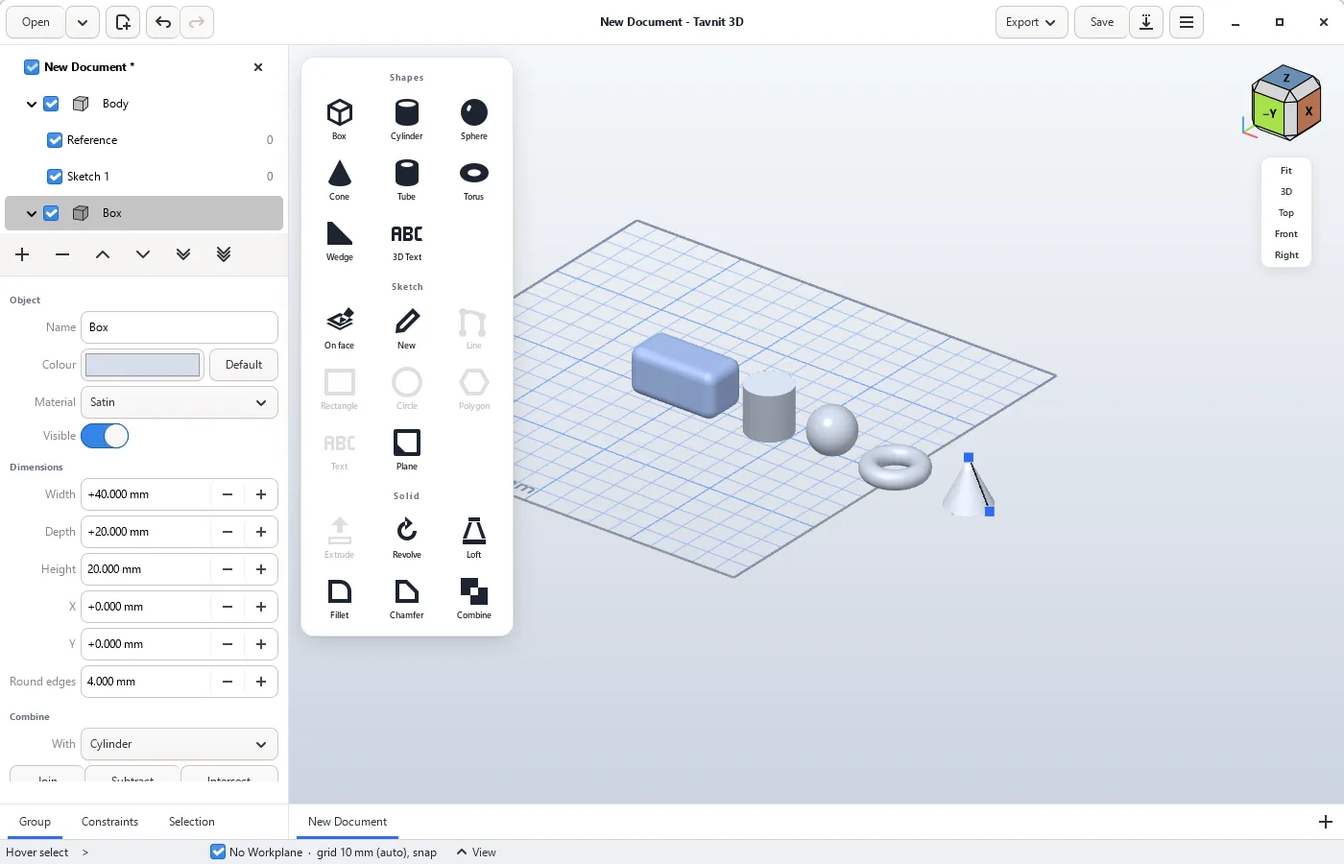
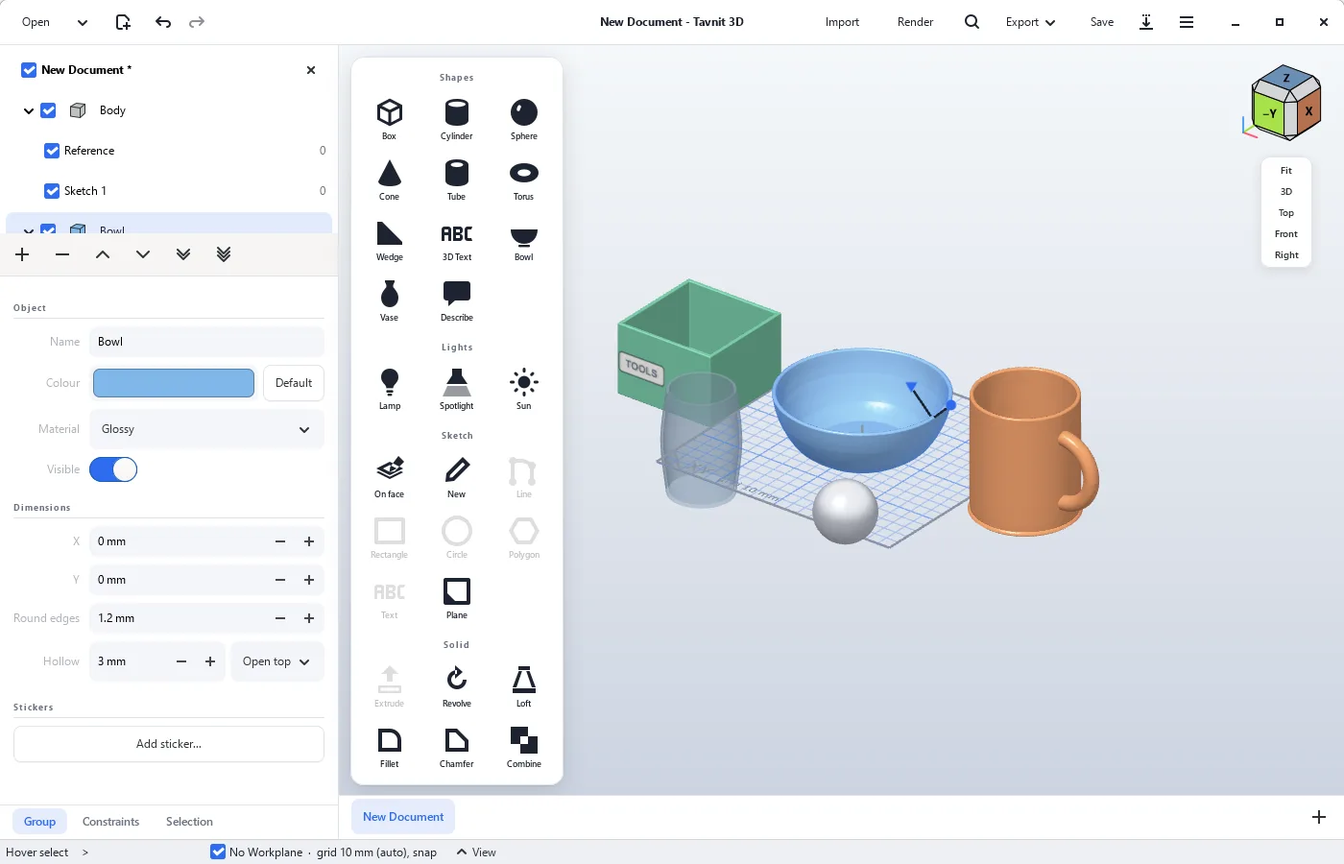
Site: 0.2.0 features, new screenshots

diff --git a/site/index.html b/site/index.html
@@ -5,7 +5,7 @@
   <meta name="viewport" content="width=device-width, initial-scale=1">
   <meta name="color-scheme" content="light dark">
   <title>Tavnit 3D - תכנון תלת-ממד פשוט ל-Windows</title>
-  <meta name="description" content="Tavnit 3D היא תוכנת תכנון תלת-ממד (CAD) ל-Windows: צורות מוכנות, מידות מדויקות, חיבור וחיסור צורות וייצוא ל-STL להדפסה. חינם ובקוד פתוח, מבוססת על Dune 3D.">
+  <meta name="description" content="Tavnit 3D היא תוכנת תכנון תלת-ממד (CAD) ל-Windows: צורות מוכנות, מידות מדויקות, חומרים ומדבקות, תאורה ותמונות כמו צילום, וייצוא ל-STL להדפסה. חינם ובקוד פתוח, מבוססת על Dune 3D.">
   <link rel="canonical" href="https://star69995.github.io/tavnit3d/">
   <link rel="alternate" hreflang="he" href="https://star69995.github.io/tavnit3d/">
   <link rel="alternate" hreflang="en" href="https://star69995.github.io/tavnit3d/en/">
@@ -15,7 +15,7 @@
   <meta property="og:type" content="website">
   <meta property="og:url" content="https://star69995.github.io/tavnit3d/">
   <meta property="og:title" content="Tavnit 3D - תכנון תלת-ממד פשוט ל-Windows">
-  <meta property="og:description" content="צורות מוכנות, מידות מדויקות, חיבור וחיסור צורות וייצוא ל-STL להדפסה בתלת-ממד. חינם ובקוד פתוח, מבוססת על Dune 3D.">
+  <meta property="og:description" content="צורות מוכנות, מידות מדויקות, חומרים, מדבקות ותמונות כמו צילום, וייצוא ל-STL להדפסה בתלת-ממד. חינם ובקוד פתוח, מבוססת על Dune 3D.">
   <meta property="og:image" content="https://star69995.github.io/tavnit3d/img/og.png">
   <meta property="og:image:width" content="1200">
   <meta property="og:image:height" content="630">
@@ -44,6 +44,10 @@
       <symbol id="i-grid" viewBox="0 0 24 24"><rect width="18" height="18" x="3" y="3" rx="2"/><path d="M3 9h18"/><path d="M3 15h18"/><path d="M9 3v18"/><path d="M15 3v18"/></symbol>
       <symbol id="i-printer" viewBox="0 0 24 24"><path d="M6 18H4a2 2 0 0 1-2-2v-5a2 2 0 0 1 2-2h16a2 2 0 0 1 2 2v5a2 2 0 0 1-2 2h-2"/><path d="M6 9V3a1 1 0 0 1 1-1h10a1 1 0 0 1 1 1v6"/><rect x="6" y="14" width="12" height="8" rx="1"/></symbol>
       <symbol id="i-refresh" viewBox="0 0 24 24"><path d="M3 12a9 9 0 0 1 9-9 9.75 9.75 0 0 1 6.74 2.74L21 8"/><path d="M21 3v5h-5"/><path d="M21 12a9 9 0 0 1-9 9 9.75 9.75 0 0 1-6.74-2.74L3 16"/><path d="M8 16H3v5"/></symbol>
+      <symbol id="i-palette" viewBox="0 0 24 24"><path d="M12 22a1 1 0 0 1 0-20 10 9 0 0 1 10 9 5 5 0 0 1-5 5h-2.25a1.75 1.75 0 0 0-1.4 2.8l.3.4a1.75 1.75 0 0 1-1.4 2.8z"/><circle cx="13.5" cy="6.5" r=".5"/><circle cx="17.5" cy="10.5" r=".5"/><circle cx="6.5" cy="12.5" r=".5"/><circle cx="8.5" cy="7.5" r=".5"/></symbol>
+      <symbol id="i-camera" viewBox="0 0 24 24"><path d="M14.5 4h-5L7 7H4a2 2 0 0 0-2 2v9a2 2 0 0 0 2 2h16a2 2 0 0 0 2-2V9a2 2 0 0 0-2-2h-3l-2.5-3z"/><circle cx="12" cy="13" r="3"/></symbol>
+      <symbol id="i-cup" viewBox="0 0 24 24"><path d="M17 8h1a4 4 0 1 1 0 8h-1"/><path d="M3 8h14v9a4 4 0 0 1-4 4H7a4 4 0 0 1-4-4Z"/><path d="M6 2v2"/><path d="M10 2v2"/><path d="M14 2v2"/></symbol>
+      <symbol id="i-files" viewBox="0 0 24 24"><path d="M15 2H6a2 2 0 0 0-2 2v16a2 2 0 0 0 2 2h12a2 2 0 0 0 2-2V7Z"/><path d="M14 2v4a2 2 0 0 0 2 2h4"/><path d="M12 18v-6"/><path d="m9 15 3 3 3-3"/></symbol>
       <symbol id="i-sparkles" viewBox="0 0 24 24"><path d="M9.94 15.5A2 2 0 0 0 8.5 14.06l-6.13-1.58a.5.5 0 0 1 0-.96L8.5 9.94A2 2 0 0 0 9.94 8.5l1.58-6.13a.5.5 0 0 1 .96 0L14.06 8.5A2 2 0 0 0 15.5 9.94l6.13 1.58a.5.5 0 0 1 0 .96L15.5 14.06a2 2 0 0 0-1.44 1.44l-1.58 6.13a.5.5 0 0 1-.96 0z"/><path d="M20 3v4"/><path d="M22 5h-4"/></symbol>
       <symbol id="i-git" viewBox="0 0 24 24"><circle cx="18" cy="18" r="3"/><circle cx="6" cy="6" r="3"/><path d="M6 21V9a9 9 0 0 0 9 9"/></symbol>
       <symbol id="i-shield" viewBox="0 0 24 24"><path d="M20 13c0 5-3.5 7.5-7.66 8.95a1 1 0 0 1-.67-.01C7.5 20.5 4 18 4 13V6a1 1 0 0 1 1-1c2 0 4.5-1.2 6.24-2.72a1.17 1.17 0 0 1 1.52 0C14.51 3.81 17 5 19 5a1 1 0 0 1 1 1z"/><path d="m9 12 2 2 4-4"/></symbol>
@@ -89,8 +93,8 @@
           <p class="eyebrow">ל-Windows 10 ו-11 · חינם · קוד פתוח</p>
           <h1>מתכננים חפצים בתלת-ממד, בלי ללמוד CAD</h1>
           <p class="lead">
-            Tavnit 3D היא תוכנת תכנון תלת-ממד למדפסת, לבית ולתחביב. מוסיפים קובייה, גליל או כדור בלחיצה,
-            קובעים מידות במילימטרים, מחברים ומחסירים צורות, ומייצאים קובץ STL שמוכן להדפסה.
+            Tavnit 3D היא תוכנת תכנון תלת-ממד למדפסת, לבית ולתחביב. מוסיפים קובייה, קערה או ספל בלחיצה,
+            קובעים מידות במילימטרים, נותנים צבע, חומר ומדבקה, ומייצאים קובץ STL להדפסה או מפיקים תמונה שנראית כמו צילום.
             מתחת לפני השטח זו תוכנת CAD פרמטרית מלאה, מבוססת על Dune 3D.
           </p>
           <div class="cta">
@@ -108,7 +112,7 @@
         <div class="hero-shot">
           <div class="window">
             <img src="img/hero.webp" width="1400" height="900"
-                 alt="חלון Tavnit 3D: לוח צורות וכלים, ועל משטח עבודה עם רשת קופסה עם פינות מעוגלות, גליל מתכתי, כדור, טבעת וחרוט. הקופסה נבחרת ובחלונית בצד המידות שלה">
+                 alt="חלון Tavnit 3D: לוח צורות, אורות וכלים, ועל משטח העבודה קופסת אחסון ירוקה עם מדבקה, כוס זכוכית, קערה כחולה מבריקה, כדור מתכת וספל כתום עם ידית. הקערה נבחרת, עם ידיות לעובי הדופן ולעיגול הקצוות, ובחלונית בצד הצבע, החומר ועובי הדופן שלה">
           </div>
         </div>
       </div>
@@ -123,17 +127,17 @@
           <article class="feature">
             <span class="feature-ic"><svg class="ic"><use href="#i-box"/></svg></span>
             <h3>צורות מוכנות</h3>
-            <p>קובייה, גליל, כדור, חרוט, צינור, טבעת, טריז וטקסט תלת-ממדי. לוחצים, והצורה עומדת על משטח העבודה.</p>
+            <p>קובייה, גליל, כדור, חרוט, צינור, טבעת, טריז, קערה, אגרטל וטקסט תלת-ממדי. לוחצים, והצורה עומדת על משטח העבודה.</p>
           </article>
           <article class="feature">
             <span class="feature-ic"><svg class="ic"><use href="#i-pointer"/></svg></span>
             <h3>לוחצים על חפץ ומשנים</h3>
-            <p>לחיצה על צורה בוחרת אותה ופותחת חלונית עם המידות, המיקום, הצבע והחומר שלה. גוררים כדי להזיז.</p>
+            <p>לחיצה על צורה בוחרת אותה ופותחת חלונית עם המידות, המיקום, הצבע והחומר שלה. גוררים כדי להזיז, וגוררים את הידיות שעל החפץ כדי לשנות גובה, רוחב ועומק.</p>
           </article>
           <article class="feature">
             <span class="feature-ic"><svg class="ic"><use href="#i-ruler"/></svg></span>
             <h3>מידות מדויקות</h3>
-            <p>כל מידה היא מספר שאפשר לשנות בכל רגע, והחפץ מתעדכן. מתאים לחלקים שצריכים להתאים זה לזה.</p>
+            <p>כל מידה היא מספר שאפשר לשנות בכל רגע, והחפץ מתעדכן. רשת עם הצמדה ושכפול ב-Ctrl+D עוזרים לסדר חלקים בדיוק.</p>
           </article>
           <article class="feature">
             <span class="feature-ic"><svg class="ic"><use href="#i-combine"/></svg></span>
@@ -141,24 +145,39 @@
             <p>מאחדים שתי צורות לאחת, מחסירים צורה כדי ליצור חור, או משאירים רק את החלק המשותף.</p>
           </article>
           <article class="feature">
+            <span class="feature-ic"><svg class="ic"><use href="#i-cup"/></svg></span>
+            <h3>חלול ומעוגל</h3>
+            <p>הופכים קופסה, גליל או קערה לחלולים בעובי דופן שבוחרים, פתוחים מלמעלה או מלמטה, ומעגלים את כל הקצוות, גם את השפה.</p>
+          </article>
+          <article class="feature">
+            <span class="feature-ic"><svg class="ic"><use href="#i-palette"/></svg></span>
+            <h3>חומרים ומדבקות</h3>
+            <p>סאטן, מט, מבריק, מתכת וזכוכית שקופה. ותמונה משלכם, כמו לוגו או תווית, מודבקת על פני החפץ, גם על צד מעוגל.</p>
+          </article>
+          <article class="feature">
+            <span class="feature-ic"><svg class="ic"><use href="#i-camera"/></svg></span>
+            <h3>תאורה ותמונה כמו צילום</h3>
+            <p>מנורה, זרקור ושמש שמאירים את התצוגה, וכפתור Render שמפיק תמונה מרשימה עם צללים רכים, בעזרת Blender החינמית.</p>
+          </article>
+          <article class="feature">
+            <span class="feature-ic"><svg class="ic"><use href="#i-sparkles"/></svg></span>
+            <h3>צורה מתיאור במילים</h3>
+            <p>כותבים "ספל עם ידית" או "קערה כחולה", ו-Claude בונה את הצורות, שאפשר לערוך אחר כך כמו כל חפץ. צריך מפתח API של Claude.</p>
+          </article>
+          <article class="feature">
             <span class="feature-ic"><svg class="ic"><use href="#i-pen"/></svg></span>
             <h3>שרטוט על פאה</h3>
             <p>משרטטים צורה דו-ממדית ישר על פאה של חפץ, ומושכים אותה החוצה. מרחק שלילי חותך פנימה.</p>
           </article>
           <article class="feature">
-            <span class="feature-ic"><svg class="ic"><use href="#i-round"/></svg></span>
-            <h3>פינות מעוגלות</h3>
-            <p>לחיצה אחת מעגלת את כל הקצוות של חפץ, לגימור נעים יותר ולהדפסה חזקה יותר.</p>
+            <span class="feature-ic"><svg class="ic"><use href="#i-files"/></svg></span>
+            <h3>ייבוא וייצוא עם צבעים</h3>
+            <p>STL למדפסת בלחיצה, STEP לתוכנות CAD, ו-glTF עם צבעים, חומרים ומדבקות ל-Blender, ל-PowerPoint ולאתרים. מייבאים STEP, IGES, glTF ו-OBJ עם הצבעים שלהם.</p>
           </article>
           <article class="feature">
-            <span class="feature-ic"><svg class="ic"><use href="#i-grid"/></svg></span>
-            <h3>רשת והצמדה</h3>
-            <p>משטח עבודה עם רשת שגודלה ניתן לבחירה, ושכפול חפצים ב-Ctrl+D. קל לסדר חלקים בדיוק.</p>
-          </article>
-          <article class="feature">
-            <span class="feature-ic"><svg class="ic"><use href="#i-printer"/></svg></span>
-            <h3>מוכן להדפסה</h3>
-            <p>ייצוא ל-STL למדפסת תלת-ממד בלחיצה, וגם ל-STEP ומ-STEP, לעבודה מול תוכנות CAD אחרות.</p>
+            <span class="feature-ic"><svg class="ic"><use href="#i-search"/></svg></span>
+            <h3>חיפוש פקודות</h3>
+            <p>Ctrl+K, או פשוט מקלידים, ומקבלים כל פקודה עם המקום שלה בחלון וקיצור המקלדת שלה. אפשר לחפש גם בעברית.</p>
           </article>
           <article class="feature">
             <span class="feature-ic"><svg class="ic"><use href="#i-refresh"/></svg></span>
@@ -176,11 +195,25 @@
         <p class="section-lead">לחיצה על תמונה מגדילה אותה. הממשק של התוכנה באנגלית.</p>
         <div class="gallery">
           <figure class="shot">
-            <button type="button" class="shot-btn" data-full="img/object-panel.webp" aria-label="הגדלת התמונה: חלונית החפץ">
-              <img src="img/object-panel.webp" width="1400" height="900" loading="lazy"
-                   alt="קובייה עם פינות מעוגלות נבחרת, ובחלונית בצד הרוחב, העומק, הגובה, המיקום, עיגול הפינות, הצבע והחומר שלה">
+            <button type="button" class="shot-btn" data-full="img/render.webp" aria-label="הגדלת התמונה: תמונה שהופקה בכפתור Render">
+              <img src="img/render.webp" width="1400" height="900" loading="lazy"
+                   alt="תמונה שהופקה מהחפצים שבחלון: קופסה ירוקה עם תווית TOOLS, כוס זכוכית שקופה, קערה כחולה מבריקה, כדור מתכת וספל כתום עם ידית, עם צללים רכים על רקע לבן">
             </button>
-            <figcaption><strong>הכול בחלונית אחת</strong>בוחרים חפץ ומשנים מידות, מיקום, עיגול פינות, צבע וחומר.</figcaption>
+            <figcaption><strong>תמונה כמו צילום</strong>אותה סצנה, אחרי לחיצה על Render: זכוכית, מתכת וצללים רכים.</figcaption>
+          </figure>
+          <figure class="shot">
+            <button type="button" class="shot-btn" data-full="img/handles.webp" aria-label="הגדלת התמונה: ידיות על החפץ">
+              <img src="img/handles.webp" width="1400" height="900" loading="lazy"
+                   alt="גליל שהפך לכוס חלולה עם שפה מעוגלת, ועליו ידיות לגובה, לקוטר, לעובי הדופן ולעיגול הקצוות">
+            </button>
+            <figcaption><strong>ידיות על החפץ</strong>גוררים ידית ומשנים גובה, קוטר, עובי דופן או עיגול, והחלונית מתעדכנת.</figcaption>
+          </figure>
+          <figure class="shot">
+            <button type="button" class="shot-btn" data-full="img/find.webp" aria-label="הגדלת התמונה: חיפוש פקודות">
+              <img src="img/find.webp" width="1400" height="900" loading="lazy"
+                   alt="חלון החיפוש מעל התוכנה: הוקלד stick, והתוצאה Add a sticker עם המקום שלה, בחלונית החפץ תחת Stickers">
+            </button>
+            <figcaption><strong>חיפוש פקודות</strong>כל פקודה, עם המקום שבו היא נמצאת.</figcaption>
           </figure>
           <figure class="shot">
             <button type="button" class="shot-btn" data-full="img/shapes.webp" aria-label="הגדלת התמונה: צורות מוכנות">
@@ -367,6 +400,18 @@
         <details class="disclosure">
           <summary><svg class="ic chev"><use href="#i-chevron"/></svg>איך מעדכנים לגרסה חדשה?</summary>
           <div class="disclosure-body"><p>בכל הפעלה התוכנה בודקת אם יצאה גרסה חדשה, ואם כן מופיע פס מעל אזור העבודה. לוחצים על "Update now", והתוכנה מורידה את הגרסה, מתקינה אותה ונפתחת מחדש. כדאי לשמור את הקבצים הפתוחים לפני כן. את הבדיקה האוטומטית אפשר לכבות בתפריט הראשי, ובכל רגע אפשר גם להוריד את הגרסה האחרונה מכאן ולהתקין מעל הקיימת.</p></div>
+        </details>
+        <details class="disclosure">
+          <summary><svg class="ic chev"><use href="#i-chevron"/></svg>מה צריך כדי להפיק תמונה בכפתור Render?</summary>
+          <div class="disclosure-body"><p>את Blender, תוכנה חינמית שמתקינים בנפרד מ-<a href="https://www.blender.org/download/">האתר שלה</a>. Tavnit 3D מוצאת אותה לבד, ומפעילה אותה ברקע כשלוחצים Render. עם כרטיס גרפי זה מהיר יותר, אבל עובד גם בלעדיו.</p></div>
+        </details>
+        <details class="disclosure">
+          <summary><svg class="ic chev"><use href="#i-chevron"/></svg>מה צריך כדי ליצור צורה מתיאור?</summary>
+          <div class="disclosure-body"><p>מפתח API של Claude, שמקבלים ב-<a href="https://console.anthropic.com/">Anthropic Console</a>. השימוש מחויב שם לפי כמות, ובדרך כלל עולה סנטים בודדים לצורה. התיאור שכותבים נשלח ל-Anthropic כדי לבנות את הצורה, והמפתח נשמר רק במחשב.</p></div>
+        </details>
+        <details class="disclosure">
+          <summary><svg class="ic chev"><use href="#i-chevron"/></svg>אילו קבצים אפשר לייבא?</summary>
+          <div class="disclosure-body"><p>STEP ו-IGES מתוכנות CAD, ו-glTF/GLB ו-OBJ מתוכנות תלת-ממד כמו Blender, כולל הצבעים והחומרים שלהם. כל צבע וחומר בקובץ הופך לחפץ נפרד שאפשר לשנות. חפצים מ-glTF ו-OBJ הם רשתות משולשים, ולכן אי אפשר לחבר אותם או לחסר מהם, אבל אפשר להזיז, לצבוע ולייצא.</p></div>
         </details>
         <details class="disclosure">
           <summary><svg class="ic chev"><use href="#i-chevron"/></svg>אפשר לפתוח קבצים של Dune 3D?</summary>

diff --git a/site/en/index.html b/site/en/index.html
@@ -15,7 +15,7 @@
   <meta property="og:type" content="website">
   <meta property="og:url" content="https://star69995.github.io/tavnit3d/en/">
   <meta property="og:title" content="Tavnit 3D - simple 3D design for Windows">
-  <meta property="og:description" content="Ready-made shapes, exact dimensions, combining and subtracting shapes, and STL export for 3D printing. Free and open source, based on Dune 3D.">
+  <meta property="og:description" content="Ready-made shapes, exact dimensions, materials, stickers and photo-like pictures, and STL export for 3D printing. Free and open source, based on Dune 3D.">
   <meta property="og:image" content="https://star69995.github.io/tavnit3d/img/og-en.png">
   <meta property="og:image:width" content="1200">
   <meta property="og:image:height" content="630">
@@ -44,6 +44,10 @@
       <symbol id="i-grid" viewBox="0 0 24 24"><rect width="18" height="18" x="3" y="3" rx="2"/><path d="M3 9h18"/><path d="M3 15h18"/><path d="M9 3v18"/><path d="M15 3v18"/></symbol>
       <symbol id="i-printer" viewBox="0 0 24 24"><path d="M6 18H4a2 2 0 0 1-2-2v-5a2 2 0 0 1 2-2h16a2 2 0 0 1 2 2v5a2 2 0 0 1-2 2h-2"/><path d="M6 9V3a1 1 0 0 1 1-1h10a1 1 0 0 1 1 1v6"/><rect x="6" y="14" width="12" height="8" rx="1"/></symbol>
       <symbol id="i-refresh" viewBox="0 0 24 24"><path d="M3 12a9 9 0 0 1 9-9 9.75 9.75 0 0 1 6.74 2.74L21 8"/><path d="M21 3v5h-5"/><path d="M21 12a9 9 0 0 1-9 9 9.75 9.75 0 0 1-6.74-2.74L3 16"/><path d="M8 16H3v5"/></symbol>
+      <symbol id="i-palette" viewBox="0 0 24 24"><path d="M12 22a1 1 0 0 1 0-20 10 9 0 0 1 10 9 5 5 0 0 1-5 5h-2.25a1.75 1.75 0 0 0-1.4 2.8l.3.4a1.75 1.75 0 0 1-1.4 2.8z"/><circle cx="13.5" cy="6.5" r=".5"/><circle cx="17.5" cy="10.5" r=".5"/><circle cx="6.5" cy="12.5" r=".5"/><circle cx="8.5" cy="7.5" r=".5"/></symbol>
+      <symbol id="i-camera" viewBox="0 0 24 24"><path d="M14.5 4h-5L7 7H4a2 2 0 0 0-2 2v9a2 2 0 0 0 2 2h16a2 2 0 0 0 2-2V9a2 2 0 0 0-2-2h-3l-2.5-3z"/><circle cx="12" cy="13" r="3"/></symbol>
+      <symbol id="i-cup" viewBox="0 0 24 24"><path d="M17 8h1a4 4 0 1 1 0 8h-1"/><path d="M3 8h14v9a4 4 0 0 1-4 4H7a4 4 0 0 1-4-4Z"/><path d="M6 2v2"/><path d="M10 2v2"/><path d="M14 2v2"/></symbol>
+      <symbol id="i-files" viewBox="0 0 24 24"><path d="M15 2H6a2 2 0 0 0-2 2v16a2 2 0 0 0 2 2h12a2 2 0 0 0 2-2V7Z"/><path d="M14 2v4a2 2 0 0 0 2 2h4"/><path d="M12 18v-6"/><path d="m9 15 3 3 3-3"/></symbol>
       <symbol id="i-sparkles" viewBox="0 0 24 24"><path d="M9.94 15.5A2 2 0 0 0 8.5 14.06l-6.13-1.58a.5.5 0 0 1 0-.96L8.5 9.94A2 2 0 0 0 9.94 8.5l1.58-6.13a.5.5 0 0 1 .96 0L14.06 8.5A2 2 0 0 0 15.5 9.94l6.13 1.58a.5.5 0 0 1 0 .96L15.5 14.06a2 2 0 0 0-1.44 1.44l-1.58 6.13a.5.5 0 0 1-.96 0z"/><path d="M20 3v4"/><path d="M22 5h-4"/></symbol>
       <symbol id="i-git" viewBox="0 0 24 24"><circle cx="18" cy="18" r="3"/><circle cx="6" cy="6" r="3"/><path d="M6 21V9a9 9 0 0 0 9 9"/></symbol>
       <symbol id="i-shield" viewBox="0 0 24 24"><path d="M20 13c0 5-3.5 7.5-7.66 8.95a1 1 0 0 1-.67-.01C7.5 20.5 4 18 4 13V6a1 1 0 0 1 1-1c2 0 4.5-1.2 6.24-2.72a1.17 1.17 0 0 1 1.52 0C14.51 3.81 17 5 19 5a1 1 0 0 1 1 1z"/><path d="m9 12 2 2 4-4"/></symbol>
@@ -89,9 +93,9 @@
           <p class="eyebrow">For Windows 10 and 11 · Free · Open source</p>
           <h1>Design things in 3D, without learning CAD</h1>
           <p class="lead">
-            Tavnit 3D is a 3D design app for your printer, your home and your hobbies. Add a box, a cylinder or a sphere
-            in one click, set dimensions in millimetres, combine and subtract shapes, and export an STL file that's ready to print.
-            Under the hood it's a full parametric CAD, based on Dune 3D.
+            Tavnit 3D is a 3D design app for your printer, your home and your hobbies. Add a box, a bowl or a mug
+            in one click, set dimensions in millimetres, give it a colour, a material and a sticker, and export an STL file to print
+            or render a picture that looks like a photo. Under the hood it's a full parametric CAD, based on Dune 3D.
           </p>
           <div class="cta">
             <a class="btn btn-primary btn-lg" href="https://github.com/Star69995/tavnit3d/releases/latest" data-latest-link id="hero-download">
@@ -108,7 +112,7 @@
         <div class="hero-shot">
           <div class="window">
             <img src="../img/hero.webp" width="1400" height="900"
-                 alt="The Tavnit 3D window: a palette of shapes and tools, and on a gridded work plane a box with rounded edges, a metal cylinder, a sphere, a torus and a cone. The box is selected and its dimensions are in the side panel">
+                 alt="The Tavnit 3D window: a palette of shapes, lights and tools, and on the work plane a green storage box with a label, a glass, a glossy blue bowl, a metal ball and an orange mug with a handle. The bowl is selected, with handles for its wall thickness and edge rounding, and its colour, material and hollowing in the side panel">
           </div>
         </div>
       </div>
@@ -123,17 +127,17 @@
           <article class="feature">
             <span class="feature-ic"><svg class="ic"><use href="#i-box"/></svg></span>
             <h3>Ready-made shapes</h3>
-            <p>Box, cylinder, sphere, cone, tube, torus, wedge and 3D text. One click, and the shape stands on the work plane.</p>
+            <p>Box, cylinder, sphere, cone, tube, torus, wedge, bowl, vase and 3D text. One click, and the shape stands on the work plane.</p>
           </article>
           <article class="feature">
             <span class="feature-ic"><svg class="ic"><use href="#i-pointer"/></svg></span>
             <h3>Click an object to change it</h3>
-            <p>Clicking a shape selects it and opens a panel with its dimensions, position, colour and material. Drag to move it.</p>
+            <p>Clicking a shape selects it and opens a panel with its dimensions, position, colour and material. Drag it to move it, and drag the handles on it to change its height, width and depth.</p>
           </article>
           <article class="feature">
             <span class="feature-ic"><svg class="ic"><use href="#i-ruler"/></svg></span>
             <h3>Exact dimensions</h3>
-            <p>Every dimension is a number you can change at any time, and the object follows. Good for parts that have to fit together.</p>
+            <p>Every dimension is a number you can change at any time, and the object follows. A grid with snapping and Ctrl+D to duplicate help line parts up exactly.</p>
           </article>
           <article class="feature">
             <span class="feature-ic"><svg class="ic"><use href="#i-combine"/></svg></span>
@@ -141,24 +145,39 @@
             <p>Merge two shapes into one, subtract a shape to make a hole, or keep only the part they share.</p>
           </article>
           <article class="feature">
+            <span class="feature-ic"><svg class="ic"><use href="#i-cup"/></svg></span>
+            <h3>Hollow and rounded</h3>
+            <p>Hollow out a box, a cylinder or a bowl with walls as thick as you like, open at the top or the bottom, and round every edge, the rim too.</p>
+          </article>
+          <article class="feature">
+            <span class="feature-ic"><svg class="ic"><use href="#i-palette"/></svg></span>
+            <h3>Materials and stickers</h3>
+            <p>Satin, matte, glossy, metal and see-through glass. And a picture of your own, like a logo or a label, stuck onto the object's surface, round sides included.</p>
+          </article>
+          <article class="feature">
+            <span class="feature-ic"><svg class="ic"><use href="#i-camera"/></svg></span>
+            <h3>Lights and photo-like pictures</h3>
+            <p>A lamp, a spotlight and the sun that light the view, and a Render button that makes a striking picture with soft shadows, using the free Blender.</p>
+          </article>
+          <article class="feature">
+            <span class="feature-ic"><svg class="ic"><use href="#i-sparkles"/></svg></span>
+            <h3>Shapes from a description</h3>
+            <p>Write "a mug with a handle" or "a blue bowl", and Claude builds the shapes, editable afterwards like any other object. Needs a Claude API key.</p>
+          </article>
+          <article class="feature">
             <span class="feature-ic"><svg class="ic"><use href="#i-pen"/></svg></span>
             <h3>Sketch on a face</h3>
             <p>Draw a 2D shape right on an object's face and pull it out. A negative distance cuts in.</p>
           </article>
           <article class="feature">
-            <span class="feature-ic"><svg class="ic"><use href="#i-round"/></svg></span>
-            <h3>Rounded edges</h3>
-            <p>One setting rounds all of an object's edges, for a nicer finish and a stronger print.</p>
+            <span class="feature-ic"><svg class="ic"><use href="#i-files"/></svg></span>
+            <h3>Import and export with colours</h3>
+            <p>STL for your printer in one click, STEP for CAD apps, and glTF with colours, materials and stickers for Blender, PowerPoint and the web. Import STEP, IGES, glTF and OBJ with their colours.</p>
           </article>
           <article class="feature">
-            <span class="feature-ic"><svg class="ic"><use href="#i-grid"/></svg></span>
-            <h3>Grid and snapping</h3>
-            <p>A work plane with a grid size you choose, and Ctrl+D to duplicate. Lining parts up exactly is easy.</p>
-          </article>
-          <article class="feature">
-            <span class="feature-ic"><svg class="ic"><use href="#i-printer"/></svg></span>
-            <h3>Ready to print</h3>
-            <p>Export STL for your 3D printer in one click, plus STEP export and import for working with other CAD apps.</p>
+            <span class="feature-ic"><svg class="ic"><use href="#i-search"/></svg></span>
+            <h3>Find any command</h3>
+            <p>Ctrl+K, or just start typing, and get any command with where it is in the window and its keyboard shortcut.</p>
           </article>
           <article class="feature">
             <span class="feature-ic"><svg class="ic"><use href="#i-refresh"/></svg></span>
@@ -176,11 +195,25 @@
         <p class="section-lead">Click a picture to enlarge it.</p>
         <div class="gallery">
           <figure class="shot">
-            <button type="button" class="shot-btn" data-full="../img/object-panel.webp" aria-label="Enlarge: the object panel">
-              <img src="../img/object-panel.webp" width="1400" height="900" loading="lazy"
-                   alt="A cube with rounded edges is selected; the side panel shows its width, depth, height, position, edge rounding, colour and material">
+            <button type="button" class="shot-btn" data-full="../img/render.webp" aria-label="Enlarge: a picture made with the Render button">
+              <img src="../img/render.webp" width="1400" height="900" loading="lazy"
+                   alt="A picture made from the objects in the window: a green box with a TOOLS label, a clear glass, a glossy blue bowl, a metal ball and an orange mug with a handle, with soft shadows on a white background">
             </button>
-            <figcaption><strong>Everything in one panel</strong>Select an object and change its dimensions, position, rounding, colour and material.</figcaption>
+            <figcaption><strong>A picture like a photo</strong>The same scene after clicking Render: glass, metal and soft shadows.</figcaption>
+          </figure>
+          <figure class="shot">
+            <button type="button" class="shot-btn" data-full="../img/handles.webp" aria-label="Enlarge: handles on the object">
+              <img src="../img/handles.webp" width="1400" height="900" loading="lazy"
+                   alt="A cylinder turned into a hollow cup with a rounded rim, with handles for its height, diameter, wall thickness and edge rounding">
+            </button>
+            <figcaption><strong>Handles on the object</strong>Drag a handle to change the height, diameter, wall thickness or rounding, and the panel follows.</figcaption>
+          </figure>
+          <figure class="shot">
+            <button type="button" class="shot-btn" data-full="../img/find.webp" aria-label="Enlarge: finding a command">
+              <img src="../img/find.webp" width="1400" height="900" loading="lazy"
+                   alt="The Find window over the app: stick typed in, and the result Add a sticker with where it is, in the object panel under Stickers">
+            </button>
+            <figcaption><strong>Find any command</strong>Every command, with where it lives.</figcaption>
           </figure>
           <figure class="shot">
             <button type="button" class="shot-btn" data-full="../img/shapes.webp" aria-label="Enlarge: ready-made shapes">
@@ -367,6 +400,18 @@
         <details class="disclosure">
           <summary><svg class="ic chev"><use href="#i-chevron"/></svg>How do I update to a new version?</summary>
           <div class="disclosure-body"><p>Every time it starts, the app checks for a new version, and if there is one, a strip appears above the work area. Click "Update now" and the app downloads the version, installs it and opens again. Save your open files first. You can turn the automatic check off in the main menu, and you can always download the latest version here and install it over the existing one.</p></div>
+        </details>
+        <details class="disclosure">
+          <summary><svg class="ic chev"><use href="#i-chevron"/></svg>What do I need for the Render button?</summary>
+          <div class="disclosure-body"><p>Blender, a free app you install separately from <a href="https://www.blender.org/download/">its website</a>. Tavnit 3D finds it by itself and runs it in the background when you click Render. A graphics card makes it faster, but it works without one too.</p></div>
+        </details>
+        <details class="disclosure">
+          <summary><svg class="ic chev"><use href="#i-chevron"/></svg>What do I need to make shapes from a description?</summary>
+          <div class="disclosure-body"><p>A Claude API key, which you get in the <a href="https://console.anthropic.com/">Anthropic Console</a>. Use is billed there by amount, usually a few cents per shape. What you write is sent to Anthropic to build the shape, and the key is kept on your computer only.</p></div>
+        </details>
+        <details class="disclosure">
+          <summary><svg class="ic chev"><use href="#i-chevron"/></svg>Which files can I import?</summary>
+          <div class="disclosure-body"><p>STEP and IGES from CAD apps, and glTF/GLB and OBJ from 3D apps like Blender, with their colours and materials. Each colour and material in the file becomes an object of its own that you can change. Objects from glTF and OBJ are triangle meshes, so they can't be joined or subtracted, but you can move, colour and export them.</p></div>
         </details>
         <details class="disclosure">
           <summary><svg class="ic chev"><use href="#i-chevron"/></svg>Can I open Dune 3D files?</summary>
